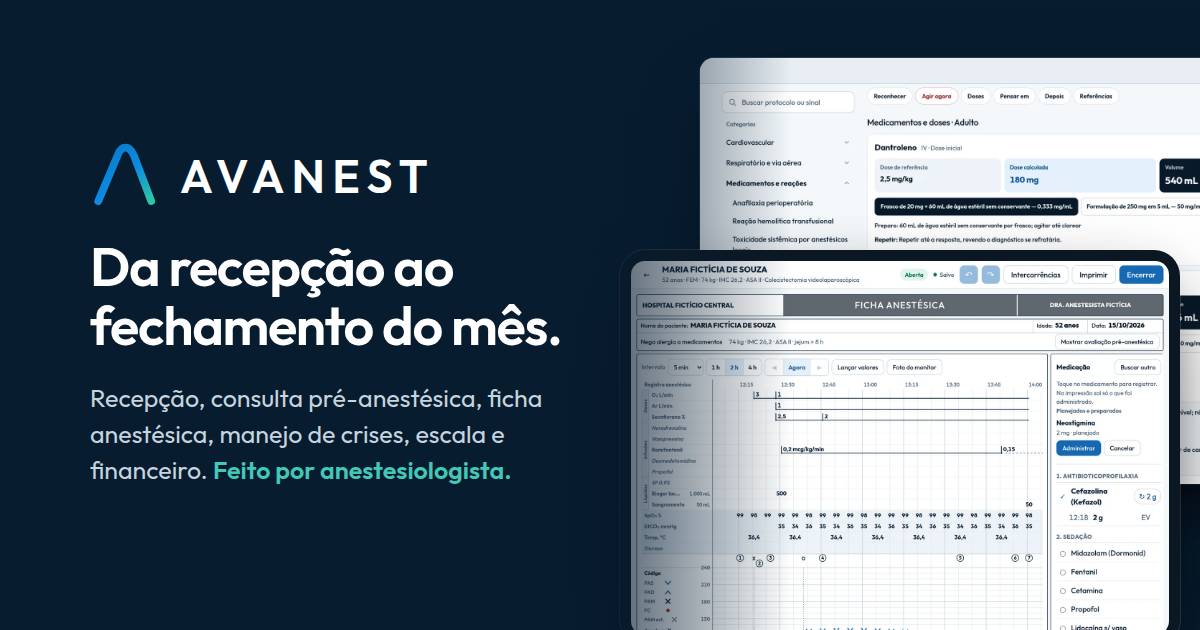
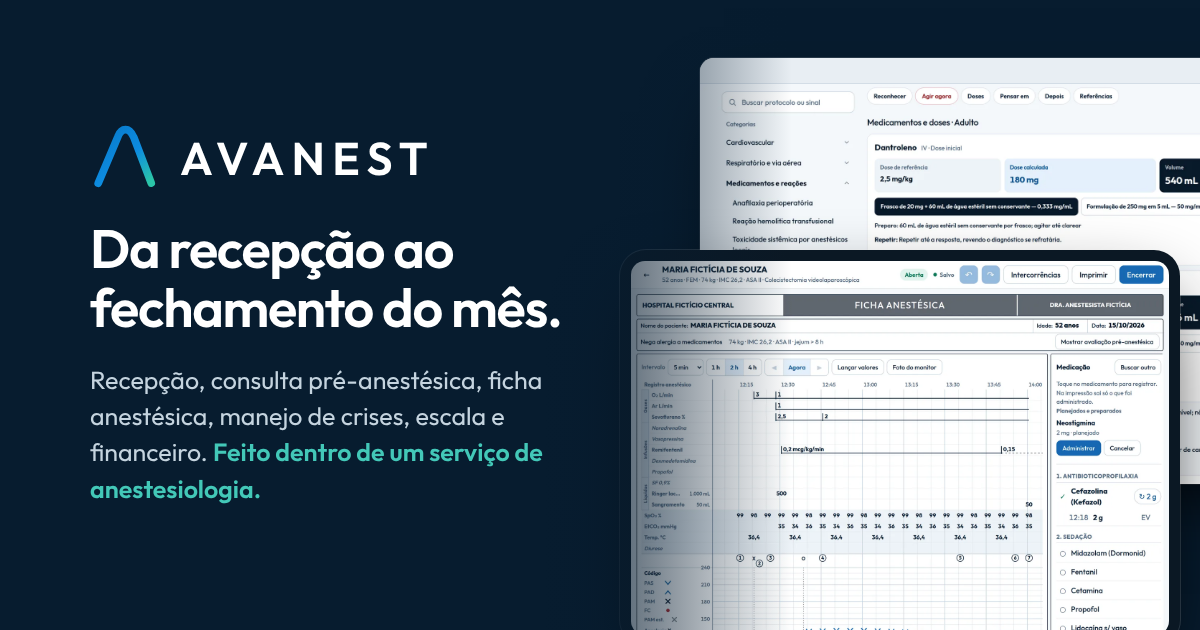
Site: o responsável é médico, não anestesiologista, até o título sair
Pedido de 05/11/2026: "tira o anestesiologista". O responsável é residente
(R3) em anestesiologia, e o título de especialista vem em março de 2027.

- Capa, "Quem está por trás do AVANEST": "Sou Gustavo Segobia da Silva,
  médico, e criei o AVANEST…", e o papel "Médico | Fundador do AVANEST".
- Capa, abertura: "desenvolvida dentro de um serviço de anestesiologia,
  para anestesiologistas" no lugar de "desenvolvida por anestesiologista".
- Descrição do link (layout) e imagem de compartilhamento, regerada pelo
  script: "Feito dentro de um serviço de anestesiologia."
- /escores: sai "por anestesiologista". /escala-medica: "feita por um médico".
- lib/autoria.ts: o cargo nos dados dos guias e da organização (schema.org
  jobTitle) passa a "Médico".
- PRODUCT.md acompanha.

Teste novo em lib/autoria.test.ts. Enquanto não houver RQE, nenhuma
página, a imagem de compartilhamento ou o bloco dizem "por anestesiologista",
e o cargo não diz "anestesiologista".

Claude-Session: https://claude.ai/code/session_01XN8JbAjVvDg9Ui5cdQAJNL

Changed region(s): [[0.0617, 0.3619, 0.4625, 0.8143], [0.0617, 0.181, 0.37, 0.3317]]

diff --git a/lib/autoria.test.ts b/lib/autoria.test.ts
@@ -18,7 +18,7 @@ test("o autor sai com nome, título e registro conferível", () => {
   assert.equal(registro(), "CRM 49131-PR");
   const p = autorEmSchema();
   assert.equal(p["@type"], "Person");
-  assert.equal(p.jobTitle, "Médico anestesiologista");
+  assert.equal(p.jobTitle, "Médico");
   // `identifier` com `PropertyValue` é o jeito de declarar registro
   // profissional: uma string solta não diria de que cadastro ela é.
   assert.equal(p.identifier["@type"], "PropertyValue");
@@ -33,6 +33,8 @@ test("o RQE não é inventado enquanto não existir", () => {
   assert.ok(!("rqe" in AUTOR), "apareceu um RQE — ele não foi informado");
   const json = JSON.stringify(autorEmSchema());
   assert.ok(!/RQE/i.test(json), "o schema está declarando um RQE que não existe");
+  // Sem RQE, sem título de especialista: o responsável é residente (R3) até março de 2027.
+  assert.doesNotMatch(AUTOR.cargo, /anestesiologista/i, "cargo de especialista sem RQE");
 });
 
 test("a data de revisão sai por extenso, sem ambiguidade", () => {
@@ -86,5 +88,25 @@ test("o CRM está escrito num lugar só", () => {
   for (const escore of ["apfel", "classificacao-asa", "indice-de-lee", "stop-bang"]) {
     const pagina = ler(`app/escores/${escore}/page.tsx`);
     assert.ok(!pagina.includes(AUTOR.crm), `${escore} tem o CRM escrito à mão`);
+  }
+});
+
+test("o site não diz que o responsável é anestesiologista enquanto não houver RQE", () => {
+  // Ele é residente (R3) em anestesiologia; o título de especialista vem em março de 2027
+  // (05/11/2026). A capa dizia "desenvolvida por anestesiologista", a descrição do link
+  // "Feito por anestesiologista", e a imagem de compartilhamento também.
+  if ("rqe" in AUTOR) return;
+  const paginas: string[] = [];
+  const andar = (pasta: string) => {
+    for (const e of fs.readdirSync(new URL(`../${pasta}`, import.meta.url), { withFileTypes: true })) {
+      const caminho = `${pasta}/${e.name}`;
+      if (e.isDirectory()) andar(caminho);
+      else if (/^(page|layout)\.tsx$/.test(e.name)) paginas.push(caminho);
+    }
+  };
+  andar("app");
+  for (const arquivo of [...paginas, "scripts/gerar-imagem-de-compartilhamento.mjs", "lib/quem-faz.ts"]) {
+    // "por anestesiologista/mês" é o preço por profissional, e não autoria.
+    assert.doesNotMatch(ler(arquivo), /por (um |uma )?(médic[oa] )?anestesiologista(?![s\/])/i, arquivo);
   }
 });

diff --git a/lib/quem-faz.ts b/lib/quem-faz.ts
@@ -3,8 +3,9 @@
 // ===========================================================================
 // TEXTO DO PRÓPRIO RESPONSÁVEL, enviado e confirmado em 05/11/2026 (segunda
 // versão, que substituiu a primeira no mesmo dia): título, parágrafos, a
-// assinatura "Dr. Gustavo Segobia da Silva" e a linha "Médico anestesiologista
-// | Fundador do AVANEST" vão como ele escreveu. Não reescreva sem ele ler: texto sobre uma pessoa não vai
+// assinatura "Dr. Gustavo Segobia da Silva" e a linha do papel vão como ele
+// escreveu. "Anestesiologista" saiu a pedido dele (05/11/2026): é residente
+// (R3) e o título de especialista vem em março de 2027. Não reescreva sem ele ler: texto sobre uma pessoa não vai
 // ao ar sem ela confirmar. Se `confirmado` voltar a false, o bloco sai de
 // produção e reaparece marcado ("Texto aguardando confirmação") no ambiente
 // local e nas prévias da Vercel.
@@ -33,11 +34,11 @@ export const QUEM_FAZ = {
   /** A assinatura abaixo do texto, como o responsável a escreveu. */
   assinatura: `Dr. ${AUTOR.nome}`,
   /** A linha abaixo da assinatura, como o responsável a escreveu. */
-  papel: "Médico anestesiologista | Fundador do AVANEST",
+  papel: "Médico | Fundador do AVANEST",
   titulo: "Quem está por trás do AVANEST",
   paragrafos: [
-    `Sou ${AUTOR.nome}, médico anestesiologista, e criei o AVANEST a partir dos desafios que `
-      + "vivencio diariamente na profissão.",
+    `Sou ${AUTOR.nome}, médico, e criei o AVANEST a partir dos desafios que vivencio `
+      + "diariamente na profissão.",
     "Tudo começou em Campo Mourão (PR), com a vontade de simplificar nossa rotina e encontrar "
       + "soluções para problemas que conhecemos de perto.",
     "O AVANEST nasceu dessa experiência e continua evoluindo dentro de um serviço de "

diff --git a/lib/capa.test.ts b/lib/capa.test.ts
@@ -43,13 +43,14 @@ test("capa, Quem está por trás do AVANEST: antes das perguntas, o texto do res
   // com a assinatura e a linha do papel como ele as escreveu.
   assert.equal(QUEM_FAZ.titulo, "Quem está por trás do AVANEST");
   assert.equal(QUEM_FAZ.assinatura, "Dr. Gustavo Segobia da Silva");
-  assert.equal(QUEM_FAZ.papel, "Médico anestesiologista | Fundador do AVANEST");
+  assert.equal(QUEM_FAZ.papel, "Médico | Fundador do AVANEST");
   assert.equal(QUEM_FAZ.paragrafos.length, 3);
-  assert.match(QUEM_FAZ.paragrafos[0], /^Sou Gustavo Segobia da Silva, médico anestesiologista, e criei o AVANEST/);
+  assert.match(QUEM_FAZ.paragrafos[0], /^Sou Gustavo Segobia da Silva, médico, e criei o AVANEST/);
   assert.match(texto.slice(quemFaz, perguntas), /QUEM_FAZ\.assinatura[\s\S]*QUEM_FAZ\.papel/);
-  // O CRM não entra (pedido do responsável).
+  // O CRM não entra (pedido do responsável), nem "anestesiologista": ele é residente (R3)
+  // e o título de especialista vem em março de 2027.
   const escrito = [QUEM_FAZ.titulo, QUEM_FAZ.assinatura, QUEM_FAZ.papel, ...QUEM_FAZ.paragrafos].join(" ");
-  assert.doesNotMatch(escrito, /CRM|RQE/);
+  assert.doesNotMatch(escrito, /CRM|RQE|anestesiologista/i);
   assert.ok(!escrito.includes(AUTOR.crm));
   assert.equal(QUEM_FAZ.nome, AUTOR.nome);
   assert.doesNotMatch(texto.slice(quemFaz, perguntas), /nomeCompleto|registro\(\)|AUTOR\.cargo/);

diff --git a/app/layout.tsx b/app/layout.tsx
@@ -34,7 +34,7 @@ export const metadata: Metadata = {
     // Sem `url` aqui: a página que herdasse este bloco declararia ser a capa.
     // Cada página pública declara o próprio endereço em lib/metadados.ts.
     title: "AVANEST | Gestão em anestesiologia",
-    description: "Da recepção ao fechamento do mês: consulta pré-anestésica, ficha anestésica, crises, escala e financeiro. Feito por anestesiologista.",
+    description: "Da recepção ao fechamento do mês: consulta pré-anestésica, ficha anestésica, crises, escala e financeiro. Feito dentro de um serviço de anestesiologia.",
     // A mesma imagem que as páginas públicas declaram por lib/metadados.ts —
     // uma fonte só, para a prévia não mudar de uma página para a outra.
     images: [IMAGEM_DE_COMPARTILHAMENTO],
@@ -45,7 +45,7 @@ export const metadata: Metadata = {
   twitter: {
     card: "summary_large_image",
     title: "AVANEST | Gestão em anestesiologia",
-    description: "Da recepção ao fechamento do mês: consulta pré-anestésica, ficha anestésica, crises, escala e financeiro. Feito por anestesiologista.",
+    description: "Da recepção ao fechamento do mês: consulta pré-anestésica, ficha anestésica, crises, escala e financeiro. Feito dentro de um serviço de anestesiologia.",
     images: ["/compartilhar.png"],
   },
 };

diff --git a/lib/autoria.ts b/lib/autoria.ts
@@ -20,7 +20,10 @@
 export const AUTOR = {
   nome: "Gustavo Segobia da Silva",
   tratamento: "Dr.",
-  cargo: "Médico anestesiologista",
+  // "Médico", e não "Médico anestesiologista": o responsável é residente (R3)
+  // em anestesiologia e o título de especialista vem em março de 2027. Troque
+  // quando ele existir, junto com o RQE — o teste amarra os dois.
+  cargo: "Médico",
   // O RQE não entra enquanto não existir. Registro de especialista é conferível
   // no portal do CFM: publicar um número aproximado é pior do que omitir o
   // campo, porque um dado errado desmente justamente a credencial que ele

diff --git a/app/page.tsx b/app/page.tsx
@@ -208,7 +208,7 @@ export default async function HomePage() {
           <h1>Menos burocracia. Mais tempo para o que realmente importa.</h1>
           <p className="avnLead">
             Gestão clínica, escalas e finanças em uma única plataforma,
-            desenvolvida por anestesiologista para anestesiologistas.
+            desenvolvida dentro de um serviço de anestesiologia, para anestesiologistas.
           </p>
           {/* OS SEIS MÓDULOS, um por linha curta, em duas colunas no computador.
               Cada um tem a sua tela real mais abaixo, em "O sistema por dentro". */}

diff --git a/app/escala-medica/page.tsx b/app/escala-medica/page.tsx
@@ -100,7 +100,7 @@ export default function EscalaMedicaPage() {
         titulo="Escala médica online para o seu grupo"
         resumo={"A escala de cada hospital em que o grupo atende, montada com dois cliques por "
           + "turno, com as trocas entre colegas registradas e o fechamento do mês pronto para "
-          + "pagar. Feita por um anestesiologista que monta a escala do próprio serviço."}
+          + "pagar. Feita por um médico que monta a escala do próprio serviço."}
         comAcao
         origem="escala-medica"
         atual={CAMINHO}

diff --git a/app/escores/page.tsx b/app/escores/page.tsx
@@ -15,7 +15,7 @@ const TRILHA = [
 export const metadata: Metadata = paginaPublica({
   titulo: "Escores da avaliação pré-anestésica | AVANEST",
   descricao: "Calculadoras livres de STOP-Bang, Apfel e índice de Lee (RCRI), e a classificação "
-    + "ASA com exemplos. Feitas para a consulta pré-anestésica, por anestesiologista.",
+    + "ASA com exemplos. Feitas para a consulta pré-anestésica.",
   caminho: CAMINHO,
 });
 

diff --git a/PRODUCT.md b/PRODUCT.md
@@ -13,7 +13,7 @@ Anestesiologistas brasileiros e os grupos de anestesia em que trabalham (Campo M
 AVANEST é a plataforma de gestão em anestesiologia: avaliação pré-anestésica com ficha, termo e orientações impressos; escala do serviço por hospital; produção do plantão, fechamento e recebimento. O módulo novo, **Evolução Anestésica Digital Inteligente**, transforma a folha de anestesia de papel numa ferramenta digital rápida e segura, mantendo a impressão parecida com a folha que o anestesiologista já usa. Sucesso: preencher a folha durante o caso tão rápido quanto no papel, com o registro fiel e auditável.
 
 ## Positioning
-Feito por anestesiologista, dentro de um serviço em atividade. A folha digital nasce da avaliação pré-anestésica que já está no sistema e devolve a impressão no padrão da folha tradicional.
+Feito por médico, dentro de um serviço de anestesiologia em atividade. A folha digital nasce da avaliação pré-anestésica que já está no sistema e devolve a impressão no padrão da folha tradicional.
 
 ## Operating Context
 - A folha de anestesia é preenchida dentro da sala cirúrgica, **principalmente em tablet deitado (paisagem)** preso ao aparelho de anestesia; computador da sala é secundário; celular deve funcionar.
